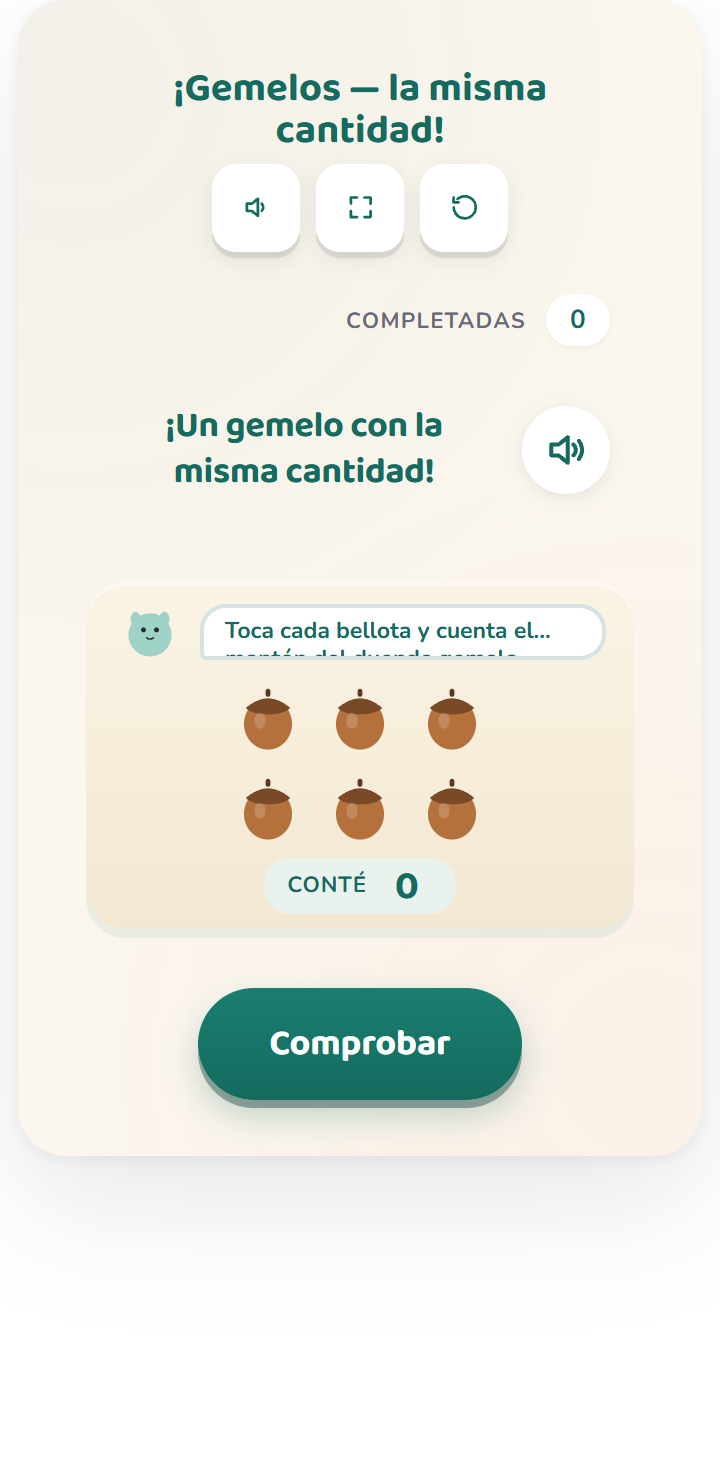
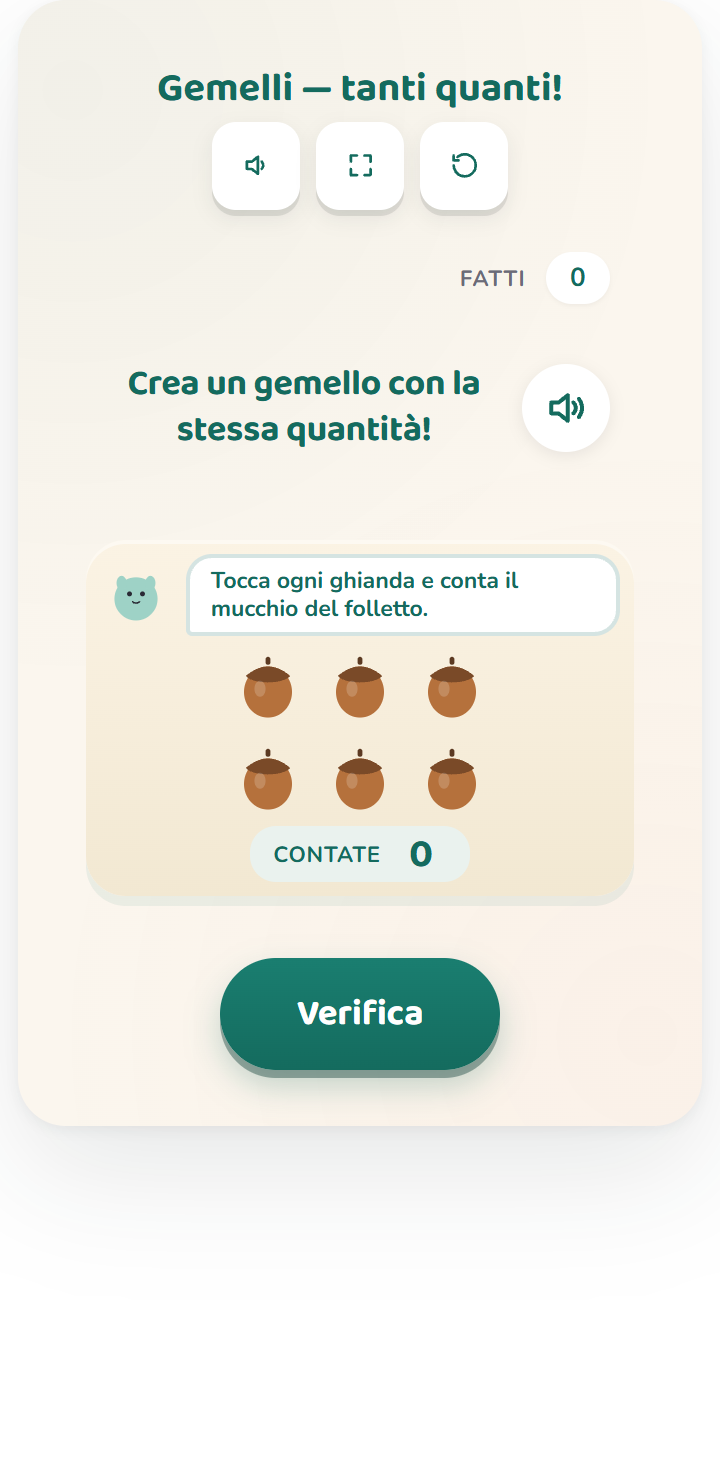
[FEATURE][I18N][IT] twinsies #69 — Gemelli, tanti quanti! (contare e formare la stessa quantità, Numeri, classe prima)
Italian second-batch fan-out, activity #69 = twinsies.count-twin.k-cc-b-5.
Rebuild not translate for the Indicazioni nazionali (3-agent native ensemble).

- 14 it strings + 1 aria arm (folletto gemello) + speak it-IT (fixes en-US fallback) + 2 inline arms (win-speak/done-eq « — gemelli!»); apostrophe-free JS.
- Terminology: folletto gemello / gemelli / tanti quanti (title+win) + la stessa quantità (prompt) / mucchio di ghiande / il tuo piatto.
- GRADE classe prima (it:'1', pedagogue-DECISIVE — overturned fr/es): the written-numeral round + range-12 + count-on push it past infanzia. ALIGNS de/pt; fr(GS)/es(PK) stay base K.
- STRAND «Numeri» AUTO — no it override (C&C→it «Numeri»; arrangements are a decoy not geometry; the STRAND row is fr-only).
- 1 visual-QA content fix: countHint shortened «...del folletto gemello.»→«...del folletto.» (the long form clipped the .tw-say line-clamp:2 at 320px).
- Manifest slug/page_title/page_intro it; it.json prose; wrapper 9.521->9.522; html ?v 9->10.
- Framework NAME only, no curriculum code. 130 it activities, all DoD gates green. NO deploy (batch at end).

diff --git a/mini tools/twinsies-activity.js b/mini tools/twinsies-activity.js
@@ -23,7 +23,7 @@
 
   function speak(text) {
     try { if (global.LCSAudio && global.LCSAudio.speak) { global.LCSAudio.speak({ type: 'number', text: String(text), lang: (LANG === 'pt' ? 'pt-BR' : LANG), rate: 0.95 }); return; }
-      if (global.speechSynthesis && global.SpeechSynthesisUtterance) { var u = new global.SpeechSynthesisUtterance(String(text)); u.rate = .95; u.lang = (LANG === 'fr' ? 'fr-FR' : LANG === 'de' ? 'de-DE' : LANG === 'es' ? 'es-MX' : LANG === 'pt' ? 'pt-BR' : 'en-US'); global.speechSynthesis.cancel(); global.speechSynthesis.speak(u); } } catch (e) {}
+      if (global.speechSynthesis && global.SpeechSynthesisUtterance) { var u = new global.SpeechSynthesisUtterance(String(text)); u.rate = .95; u.lang = (LANG === 'fr' ? 'fr-FR' : LANG === 'de' ? 'de-DE' : LANG === 'es' ? 'es-MX' : LANG === 'pt' ? 'pt-BR' : LANG === 'it' ? 'it-IT' : 'en-US'); global.speechSynthesis.cancel(); global.speechSynthesis.speak(u); } } catch (e) {}
   }
   function esc(s) { return String(s == null ? '' : s).replace(/[&<>"]/g, function (c) { return { '&': '&amp;', '<': '&lt;', '>': '&gt;', '"': '&quot;' }[c]; }); }
   function acornHTML() { return '<svg viewBox="0 0 100 100" class="tw-acorn-svg" aria-hidden="true"><ellipse cx="50" cy="60" rx="30" ry="32" fill="#B5713C"/><path d="M22 40 Q50 16 78 40 Q70 48 50 48 Q30 48 22 40 Z" fill="#7A4A28"/><rect x="47" y="16" width="6" height="10" rx="3" fill="#5C3A22"/><ellipse cx="40" cy="56" rx="7" ry="10" fill="#fff" opacity="0.18"/></svg>'; }
@@ -31,27 +31,27 @@
     var happy = mood === 'happy';
     var eyes = happy ? '<path d="M36 46 q5 -5 10 0 M54 46 q5 -5 10 0" stroke="#2A2A35" stroke-width="2.6" fill="none" stroke-linecap="round"/>' : '<circle cx="41" cy="47" r="3.4" fill="#2A2A35"/><circle cx="59" cy="47" r="3.4" fill="#2A2A35"/>';
     var mouth = happy ? '<path d="M42 58 q8 9 16 0" stroke="#2A2A35" stroke-width="2.6" fill="none" stroke-linecap="round"/>' : '<path d="M45 58 q5 4 10 0" stroke="#2A2A35" stroke-width="2.2" fill="none" stroke-linecap="round"/>';
-    return '<svg class="tw-sprite-svg" viewBox="0 0 100 100" role="img" aria-label="' + (LANG === 'fr' ? 'lutin jumeau' : LANG === 'de' ? 'Zwillings-Wicht' : LANG === 'es' ? 'duende gemelo' : LANG === 'pt' ? 'duende gêmeo' : 'Twin-Sprite') + '"><ellipse cx="50" cy="54" rx="30" ry="30" fill="#9ED2C6"/><ellipse cx="30" cy="32" rx="7" ry="10" fill="#9ED2C6"/><ellipse cx="70" cy="32" rx="7" ry="10" fill="#9ED2C6"/>' + eyes + mouth + '</svg>'; }
+    return '<svg class="tw-sprite-svg" viewBox="0 0 100 100" role="img" aria-label="' + (LANG === 'fr' ? 'lutin jumeau' : LANG === 'de' ? 'Zwillings-Wicht' : LANG === 'es' ? 'duende gemelo' : LANG === 'pt' ? 'duende gêmeo' : LANG === 'it' ? 'folletto gemello' : 'Twin-Sprite') + '"><ellipse cx="50" cy="54" rx="30" ry="30" fill="#9ED2C6"/><ellipse cx="30" cy="32" rx="7" ry="10" fill="#9ED2C6"/><ellipse cx="70" cy="32" rx="7" ry="10" fill="#9ED2C6"/>' + eyes + mouth + '</svg>'; }
 
   global.TwinsiesActivity = {
     id: 'twinsies-activity',
     reward: { id: 'friendship-shelf', label: 'Friendship Shelf', emoji: '🫶' },
 
     strings: {
-      title: { en: 'Twinsies', de: 'Zwillinge — gleich viele!', fr: 'Les jumeaux — autant l’un que l’autre !', es: '¡Gemelos — la misma cantidad!', pt: 'Gêmeos — a mesma quantidade!' },
-      prompt: { en: 'Make a twin with the same many!', de: 'Bau einen Zwilling mit gleich vielen!', fr: 'Fais un jumeau avec autant !', es: '¡Un gemelo con la misma cantidad!', pt: 'Faça um gêmeo com a mesma quantidade!' },
-      countHint: { en: 'Tap each one to count the Twin-Sprite\'s pile.', de: 'Tippe jede Eichel an und zähle den Haufen vom Zwillings-Wicht.', fr: 'Touche chaque gland pour compter le tas du lutin jumeau.', es: 'Toca cada bellota y cuenta el montón del duende gemelo.', pt: 'Toque em cada bolota e conte.' },
-      buildHint: { en: 'Build a twin with the same number.', de: 'Bau einen Zwilling mit gleich vielen.', fr: 'Construis un jumeau avec le même nombre.', es: 'Arma un gemelo con la misma cantidad.', pt: 'Monte um gêmeo com a mesma quantidade.' },
-      numeralHint: { en: 'Count out this many on your plate.', de: 'Zähle so viele auf deinen Teller.', fr: 'Compte autant de glands sur ton assiette.', es: 'Cuenta esa misma cantidad en tu plato.', pt: 'Conte a mesma quantidade no prato.' },
-      countOnHint: { en: 'Almost a twin — add one more!', de: 'Fast ein Zwilling — leg noch eine dazu!', fr: 'Presque un jumeau — ajoute-en un !', es: '¡Casi un gemelo — agrega uno más!', pt: 'Quase um gêmeo — coloque mais uma!' },
-      commit: { en: 'I counted {n} — build the twin! →', de: 'Ich habe {n} gezählt — bau den Zwilling! →', fr: 'J’ai compté {n} — construis le jumeau ! →', es: 'Conté {n} — ¡arma el gemelo! →', pt: 'Contei {n} — monte o gêmeo! →' },
-      peek: { en: '👀 Peek', de: '👀 Gucken', fr: '👀 Coup d’œil', es: '👀 Espía', pt: '👀 Espiar' },
-      twinsBtn: { en: "We're twins!", de: 'Wir sind Zwillinge!', fr: 'On est jumeaux !', es: '¡Somos gemelos!', pt: 'Somos gêmeos!' },
-      win: { en: 'Twins! Same many!', de: 'Zwillinge! Gleich viele!', fr: 'Jumeaux ! Autant l’un que l’autre !', es: '¡Gemelos! ¡La misma cantidad!', pt: 'Gêmeos! A mesma quantidade!' },
-      notyet: { en: 'Not twins yet — let\'s count again.', de: 'Noch keine Zwillinge — zählen wir noch mal.', fr: 'Pas encore jumeaux — comptons encore.', es: 'Todavía no son gemelos — vamos a contar de nuevo.', pt: 'Ainda não são gêmeos — vamos contar de novo.' },
-      hintCheck: { en: 'Make a matching twin, then tap We\'re twins!', de: 'Bau einen passenden Zwilling und tippe dann auf „Wir sind Zwillinge!“', fr: 'Fais un jumeau identique, puis touche On est jumeaux !', es: 'Arma un gemelo igual y luego toca «¡Somos gemelos!».', pt: 'Monte um gêmeo igualzinho e depois toque em “Somos gêmeos!”.' },
-      readCounted: { en: 'Counted', de: 'Gezählt', fr: 'Comptés', es: 'Conté', pt: 'Contei' },
-      readTwin: { en: 'Twin', de: 'Zwilling', fr: 'Jumeau', es: 'Gemelo', pt: 'Gêmeo' }
+      title: { en: 'Twinsies', de: 'Zwillinge — gleich viele!', fr: 'Les jumeaux — autant l’un que l’autre !', es: '¡Gemelos — la misma cantidad!', pt: 'Gêmeos — a mesma quantidade!', it: 'Gemelli — tanti quanti!' },
+      prompt: { en: 'Make a twin with the same many!', de: 'Bau einen Zwilling mit gleich vielen!', fr: 'Fais un jumeau avec autant !', es: '¡Un gemelo con la misma cantidad!', pt: 'Faça um gêmeo com a mesma quantidade!', it: 'Crea un gemello con la stessa quantità!' },
+      countHint: { en: 'Tap each one to count the Twin-Sprite\'s pile.', de: 'Tippe jede Eichel an und zähle den Haufen vom Zwillings-Wicht.', fr: 'Touche chaque gland pour compter le tas du lutin jumeau.', es: 'Toca cada bellota y cuenta el montón del duende gemelo.', pt: 'Toque em cada bolota e conte.', it: 'Tocca ogni ghianda e conta il mucchio del folletto.' },
+      buildHint: { en: 'Build a twin with the same number.', de: 'Bau einen Zwilling mit gleich vielen.', fr: 'Construis un jumeau avec le même nombre.', es: 'Arma un gemelo con la misma cantidad.', pt: 'Monte um gêmeo com a mesma quantidade.', it: 'Costruisci un gemello con lo stesso numero.' },
+      numeralHint: { en: 'Count out this many on your plate.', de: 'Zähle so viele auf deinen Teller.', fr: 'Compte autant de glands sur ton assiette.', es: 'Cuenta esa misma cantidad en tu plato.', pt: 'Conte a mesma quantidade no prato.', it: 'Conta questa quantità sul tuo piatto.' },
+      countOnHint: { en: 'Almost a twin — add one more!', de: 'Fast ein Zwilling — leg noch eine dazu!', fr: 'Presque un jumeau — ajoute-en un !', es: '¡Casi un gemelo — agrega uno más!', pt: 'Quase um gêmeo — coloque mais uma!', it: 'Quasi gemelli — aggiungi ancora uno!' },
+      commit: { en: 'I counted {n} — build the twin! →', de: 'Ich habe {n} gezählt — bau den Zwilling! →', fr: 'J’ai compté {n} — construis le jumeau ! →', es: 'Conté {n} — ¡arma el gemelo! →', pt: 'Contei {n} — monte o gêmeo! →', it: 'Ho contato {n} — costruisci il gemello! →' },
+      peek: { en: '👀 Peek', de: '👀 Gucken', fr: '👀 Coup d’œil', es: '👀 Espía', pt: '👀 Espiar', it: '👀 Sbircia' },
+      twinsBtn: { en: "We're twins!", de: 'Wir sind Zwillinge!', fr: 'On est jumeaux !', es: '¡Somos gemelos!', pt: 'Somos gêmeos!', it: 'Siamo gemelli!' },
+      win: { en: 'Twins! Same many!', de: 'Zwillinge! Gleich viele!', fr: 'Jumeaux ! Autant l’un que l’autre !', es: '¡Gemelos! ¡La misma cantidad!', pt: 'Gêmeos! A mesma quantidade!', it: 'Gemelli! Tanti quanti!' },
+      notyet: { en: 'Not twins yet — let\'s count again.', de: 'Noch keine Zwillinge — zählen wir noch mal.', fr: 'Pas encore jumeaux — comptons encore.', es: 'Todavía no son gemelos — vamos a contar de nuevo.', pt: 'Ainda não são gêmeos — vamos contar de novo.', it: 'Non ancora gemelli — contiamo di nuovo.' },
+      hintCheck: { en: 'Make a matching twin, then tap We\'re twins!', de: 'Bau einen passenden Zwilling und tippe dann auf „Wir sind Zwillinge!“', fr: 'Fais un jumeau identique, puis touche On est jumeaux !', es: 'Arma un gemelo igual y luego toca «¡Somos gemelos!».', pt: 'Monte um gêmeo igualzinho e depois toque em “Somos gêmeos!”.', it: 'Crea un gemello uguale, poi tocca Siamo gemelli!' },
+      readCounted: { en: 'Counted', de: 'Gezählt', fr: 'Comptés', es: 'Conté', pt: 'Contei', it: 'Contate' },
+      readTwin: { en: 'Twin', de: 'Zwilling', fr: 'Jumeau', es: 'Gemelo', pt: 'Gêmeo', it: 'Gemello' }
     },
     defaults: {},
 
@@ -203,7 +203,7 @@
       if (res.twins) {
         this.solved = true; this.stage = 'done'; this.solvedCount = Math.min(this.solvedCount + 1, (this._pool && this._pool.length) || 7);
         this.api.sound && this.api.sound(900); this.render();
-        var n = this._n(); api.announce && api.announce(api.t('win')); speak(LANG === 'fr' ? (n + ' et ' + n + ' — jumeaux !') : LANG === 'de' ? (n + ' und ' + n + ' — Zwillinge!') : LANG === 'es' ? (n + ' y ' + n + ' — ¡gemelos!') : LANG === 'pt' ? (n + ' e ' + n + ' — gêmeos!') : (n + ' and ' + n + ' — twins!'));
+        var n = this._n(); api.announce && api.announce(api.t('win')); speak(LANG === 'fr' ? (n + ' et ' + n + ' — jumeaux !') : LANG === 'de' ? (n + ' und ' + n + ' — Zwillinge!') : LANG === 'es' ? (n + ' y ' + n + ' — ¡gemelos!') : LANG === 'pt' ? (n + ' e ' + n + ' — gêmeos!') : LANG === 'it' ? (n + ' e ' + n + ' — gemelli!') : (n + ' and ' + n + ' — twins!'));
       } else {
         this.declareFail = true; this.api.sound && this.api.sound(330); this.render();
         api.announce && api.announce(api.t('notyet'));    // undirected — NO count, NO direction
@@ -213,7 +213,7 @@
     _renderDone: function (root) {
       var api = this.api;
       var thread = api.el('div', 'tw-thread'); thread.innerHTML = '<span class="tw-pair">' + acornHTML() + '</span><span class="tw-link"></span><span class="tw-pair">' + acornHTML() + '</span>'; root.appendChild(thread);
-      var eq = api.el('div', 'tw-eq'); eq.textContent = (LANG === 'fr') ? (this._n() + ' & ' + this._n() + ' — jumeaux !') : (this._n() + ' & ' + this._n() + (LANG === 'de' ? ' — Zwillinge!' : LANG === 'es' ? ' — ¡gemelos!' : LANG === 'pt' ? ' — gêmeos!' : ' — twins!')); root.appendChild(eq);
+      var eq = api.el('div', 'tw-eq'); eq.textContent = (LANG === 'fr') ? (this._n() + ' & ' + this._n() + ' — jumeaux !') : (this._n() + ' & ' + this._n() + (LANG === 'de' ? ' — Zwillinge!' : LANG === 'es' ? ' — ¡gemelos!' : LANG === 'pt' ? ' — gêmeos!' : LANG === 'it' ? ' — gemelli!' : ' — twins!')); root.appendChild(eq);
       var shelf = api.el('div', 'tw-shelf');
       for (var i = 0; i < ((this._pool && this._pool.length) || 7); i++) { var s = api.el('span', 'tw-pairdot' + (i < this.solvedCount ? ' tw-pairdot-on' : '')); s.textContent = '🫶'; shelf.appendChild(s); }
       root.appendChild(shelf);

diff --git a/frontend/app/[locale]/activities/[slug]/page.tsx b/frontend/app/[locale]/activities/[slug]/page.tsx
@@ -116,7 +116,7 @@ const GRADE_OVERRIDE: Record<string, Record<string, string>> = {
   'nesting-pots.seriate.k-cc-c-7': { de: '1', fr: '1', es: 'PK', pt: '1', it: '1' },          // it classe prima: confrontare/ordinare i numeri naturali SCRITTI 1-10 (leggendo il NUMERALE dipinto, NON la grandezza del vasetto = distrattore) = obiettivo classe-prima «Numeri»; la scuola dell'infanzia lavora il numero solo oralmente/concretamente, non formalizza il simbolo scritto. Aligns de/fr/pt + il fratello K.CC.C.7 comparison-creek=1; diverge es=PK (artefatto sistema MX). Strand «Numeri» auto (C&C→Numeri; la grandezza è un DECOY → NON «Spazio e figure») — NO STRAND_OVERRIDE. // PT 1º ano (pedagogue-decisive) · Números · EF01MA05: ordenar/encaixar potes pelo NUMERAL pintado (do maior ao menor), lendo o número e NÃO o tamanho físico (o tamanho é distrator perceptual), é comparar/ordenar números naturais ESCRITOS — EF01MA05 ("comparar números de até duas ordens"; o round de duas ordens 12-40 é a redação literal), unidade Números, 1º ano — NÃO seriação perceptual da EI (EI03ET07, evita a formalização simbólica). Espelha comparison-creek (mesmo K.CC.C.7 → pt 1º/EF01MA05) e diverge do es='PK' (a fronteira BNCC EI→EF cai um degrau acima da SEP); ancorado em EF01MA05, não no artefato de='Klasse 1'. Números por auto-map, SEM STRAND_OVERRIDE pt. // K seriate/order numbers → Klasse 1; en stays Kindergarten (K-cluster pattern). FR CP (operator-ruled, content-drives): comparer/ranger/encadrer des nombres écrits + un round à deux chiffres (12-40) + la seriation d'une suite = attendus du CP (« comparer, ranger, encadrer les nombres jusqu'à 100 »); DIVERGES from the K.CC.C.7 sibling comparison-creek (all 1-10 → GS) on content difficulty (posy #71 pattern); CP → the auto-map « Nombres et calcul » is correct → NO STRAND override. ES Preescolar ('PK' → «Preescolar»): seriar/ordenar numerales 1-10 = misma banda de preescolar que comparar (maestra-decisive); ESPEJA el hermano comparison-creek es:'PK' (mismo estándar K.CC.C.7); el reto de 2 cifras es UN round, no define el grado; el Klasse-1 alemán NO transfiere; strand auto «Sentido numérico» → NO es STRAND override
   'clunks-lost-lunch.make-total.k-oa-a-3': { de: '1', fr: '1', es: '1', pt: '1', it: '1' },  // IT classe prima (pedagogue-decisive): comporre/scomporre i numeri entro il 20 (target 10/12/14) con numerali scritti + addizione = obiettivo classe-prima «Numeri» (la scuola dell'infanzia lavora il numero solo oralmente/concretamente). STRAND «Numeri» AUTO (OA→it «Numeri» in strand-names.ts — corretto, NIENTE STRAND_OVERRIDE, a differenza di de «Zahlen und Operationen» / pt «Números»). ALIGNS de/fr/es/pt. // PT 1º ano (pedagogue-decisive) · Números (STRAND_OVERRIDE obrigatório, ver abaixo): compor um total de várias formas = composição/decomposição aditiva (EF01MA06 fatos básicos da adição + EF01MA08 problemas reunir/completar com material manipulável). Totais até ~14 (cruzando a dezena) permanecem 1º — EF01MA08 prevê "até dois algarismos"; NÃO é EF02MA04/2º (decomposição em dezenas/unidades, ausente — a criança combina parcelas num todo, nunca lê dezena/unidade). Espelha chuffer pt='1'; converge com de/fr/es grade 1. // K make-a-total-many-ways (Zahlen zusammensetzen) → Klasse 1; en stays Kindergarten (chuffer precedent). fr → CP (content-drives-CP: composer/décomposer un total jusqu'à 14 + compléments = calcul CP, NOT pure maternelle); strand falls through auto-map « Nombres et calcul ». ES 1.º primaria ('1', operator-ruled): componer hasta 14 CRUZANDO la decena + suma mental de varios sumandos = composición aditiva formal de 1.º (preescolar es concreto, ≤10); alinea ten-tank #58 (cruzar la decena→1.º); DIVERGE del hermano chuffer K.OA.A.3 (≤10→Kínder) por dificultad de contenido; strand auto «Sentido numérico» → NO es STRAND override
   'posy-egg-cartons.count-tens.k-cc-a-1': { de: '2', fr: '1', es: '1', pt: '1', it: '2' },  // it classe SECONDA (pedagogue-decisive, DIVERGES es/fr/pt=1, ALIGNS de=2 by an INDEPENDENT Italian ruling): «la classe prima italiana è il regno dei numeri entro il 20»; contare di dieci in dieci fino a 100 + riconoscere un numeral entro il 100 = caposaldo di classe seconda (l'entro-100 RANGE è il marcatore, non la meccanica del valore posizionale — la scansione italiana è vicina alla tedesca). Strand «Numeri» auto (contare, non Álgebra) — NO STRAND_OVERRIDE. // K count-by-tens CONTENT bis 100. PT 1º ano (pedagogue-decisive, NOT 2º): contar coleção ATÉ 100 de 10 em 10 (agrupamento) = BNCC EF01MA04 ("até 100... jogos/brincadeiras", explícito no 1º) + EF01MA02 (contar por agrupamentos); a Klasse-2 alemã é artefato de estratificação DE (ZR-bis-100), NÃO transfere à BNCC (sem esse teto). ⚠ DISTINTO de bos-berry-pantry pt='2': posy CONTA uma coleção (caixas-de-dez = suporte de contagem), NÃO lê/decompõe numeral de duas ordens por valor posicional (isso é o que a BNCC adia para 2º). Harmoniza com fr(CP)/es(1.º). Strand Números pelo auto-map (contagem, NÃO Álgebra — não completa sequência) → SEM STRAND_OVERRIDE pt. → Klasse 2 (ZR bis 100 = Klasse 2; content drives the grade, the pond-juice/bundle-bot precedent); en stays Kindergarten. FR CP: compter de 10 en 10 jusqu'à 100 / les nombres jusqu'à 100 (groupements par dizaines) = attendu de CP (le domaine des nombres jusqu'à 100 débute au CP en France) → native 'K' does NOT auto-map to GS (la GS s'arrête vers 30, sans dizaines structurées); the FIRST cycle-2 counting fan, DIVERGES from de Klasse 2; strand auto-map « Nombres et calcul » is correct for CP → NO STRAND override. ES 1.º primaria (maestra-decisive #61, "no escalation"): 1.º mexicano trabaja hasta 100 + la decena + contar de 10 en 10; la Klasse-2 alemana NO transfiere (artefacto de estratificación DE); alinea los hermanos base-ten es within-100 (bundle-bot/track-repair/ten-tank='1'). strand auto «Sentido numérico» (no override)
-  'twinsies.count-twin.k-cc-b-5': { de: '1', pt: '1' },                   // K count + make a gleich-große Menge (Anzahlinvarianz, ZR bis 12) → Klasse 1; en stays Kindergarten (K-cluster pattern). PT 1º ano · EF01MA03 · Números: a criança conta a coleção do duende e PRODUZ uma coleção "gêmea" com a mesma quantidade, em arranjo diferente (fila/espalhado/campo/numeral) — só o número coincide, não a forma (conservação do número). EF01MA03 (correspondência um a um: tem mais/menos/a mesma quantidade) — MESMA habilidade da friendship-bridge, aqui do lado PRODUZIR ("dar tantos quanto") em vez de julgar. Espelha de (Klasse 1) + friendship-bridge; diverge de fr (GS)/es (preescolar): a fronteira da BNCC p/ a correspondência "mesma quantidade" cai um degrau acima da maternelle/SEP. NÃO é EI (construção sistemática por correspondência = 1º). C&C→Números auto-map, SEM STRAND_OVERRIDE pt
+  'twinsies.count-twin.k-cc-b-5': { de: '1', pt: '1', it: '1' },          // IT classe prima (pedagogue-decisive, overturned fr/es): the written-NUMERAL round (leggere "8", formare 8) instantiates a classe-prima «Numeri» obiettivo (leggere/scrivere i numeri; l'infanzia usa «simboli personali», NON il numerale) + range-to-12 + count-on «in senso progressivo» → past infanzia. ALIGNS de/pt; diverges fr (GS)/es (preescolar, stay base K). STRAND «Numeri» AUTO (C&C→it «Numeri»; arrangements are a DECOY not geometry) — NO it STRAND_OVERRIDE (line ~173 is fr-only). // K count + make a gleich-große Menge (Anzahlinvarianz, ZR bis 12) → Klasse 1; en stays Kindergarten (K-cluster pattern). PT 1º ano · EF01MA03 · Números: a criança conta a coleção do duende e PRODUZ uma coleção "gêmea" com a mesma quantidade, em arranjo diferente (fila/espalhado/campo/numeral) — só o número coincide, não a forma (conservação do número). EF01MA03 (correspondência um a um: tem mais/menos/a mesma quantidade) — MESMA habilidade da friendship-bridge, aqui do lado PRODUZIR ("dar tantos quanto") em vez de julgar. Espelha de (Klasse 1) + friendship-bridge; diverge de fr (GS)/es (preescolar): a fronteira da BNCC p/ a correspondência "mesma quantidade" cai um degrau acima da maternelle/SEP. NÃO é EI (construção sistemática por correspondência = 1º). C&C→Números auto-map, SEM STRAND_OVERRIDE pt
   'rivets-number-forge.numeral-album.k-cc-a-3': { de: '1', fr: '1', pt: '1' },  // PT 1º ano · Números · EF01MA01 (utilizar o número natural como indicador de quantidade). A criança conta a coleção e FORJA o numeral escrito (0 a 20, incl. o zero) que diz quantos são — relacionar quantidade ↔ registro simbólico, a terceira face do K.CC.A.3 (ler/escrever/contar-e-representar). Espelha pips-round (leitura 0-20) e digby (escrita 0-9), ambos pt 1º/EF01MA01. Zero e a faixa 0-20 não sobem (o numeral é PRODUZIDO como rótulo da contagem, sem decomposição por valor posicional). C&C→Números auto-map, SEM STRAND_OVERRIDE. Converge com de(Klasse1)/fr(CP), diverge de es='K' nativo. // K count-enacted numeral production (Anzahl bis 20 + passende Ziffer) → Klasse 1 (ZR bis 20); en stays Kindergarten (K-cluster; digby/pips siblings precedent). fr → CP (RANGE-driven like the READ sibling pips #99: producing two-digit teen numerals 10-14 = « écrire les nombres jusqu'à 20 en chiffres » CP, not the GS 0-9 digby ceiling); strand auto-maps « Nombres et calcul »
   'mamas-roll-call.numeral-trace.k-cc-b-5': { de: '1', pt: '1' },         // PT 1º ano · Números · EF01MA04. A Mamãe Pata faz a chamada: pede um número exato de patinhos (0-9), a criança CONTA um a um essa quantidade da balsa e a envia e, por fim, ASSINA a chamada ESCREVENDO/traçando o algarismo (0-9). Híbrido contar-coleção + registrar-algarismo → EF01MA04 ("contar... e apresentar o resultado por registros verbais e SIMBÓLICOS") é o gesto contar-para-depois-escrever. Espelha twinsies (face de contagem/coleção, EF01MA03) e digby (face da escrita convencional, EF01MA01), reunidos. Fica 1º (as duas faces são 1º; nem o teto 9 nem o zero rebaixam a escrita do algarismo). Converge com de(Klasse1), diverge de fr(GS)/es(K). C&C→Números auto-map, SEM STRAND_OVERRIDE pt. // K count-out (self-stop) + Ziffer formen (Anzahl bis 9) → Klasse 1; en stays Kindergarten (K-cluster; mochi/twinsies K.CC.B.5 precedent)
   'parking-tower.place-by-relation.k-g-a-1': { de: '1', pt: '1' },        // K Lagebeziehungen über/unter/neben/zwischen → Klasse 1 Geometrie; en stays Kindergarten (K-cluster). // PT 1º ano (override do native 'K'): descrever a localização de objetos em relação a um DADO PONTO DE REFERÊNCIA (o veículo já estacionado) usando em cima/embaixo/ao lado/entre = BNCC EF01MA12 (unidade Geometria, 1º ano — a habilidade nomeia "em cima, embaixo" e exige explicitar o referente; distinta de EF01MA11, relativa à própria posição direita/esquerda/frente/atrás). A Educação Infantil trata noções espaciais só informalmente (campos de experiência), sem o construto do referente → BNCC formaliza em 1º. Converge com de(Klasse 1), diverge de fr(GS)/es(Kínder). Strand Geometria resolve pelo auto-map (Geometry→Geometria, strand-names.ts:64) — SEM STRAND_OVERRIDE pt (o override :165 é fr-only).
@@ -555,7 +555,7 @@ export default async function ActivityPage({ params }: { params: PageParams }) {
   // applied here to the iframe-loaded wrapper URL (the only un-busted
   // link in the activity-page → mini-tool chain). The wrapper reads
   // only `activity` / `lang` / `embed` params; `v` is harmless to it.
-  const ACTIVITY_WRAPPER_VERSION = '9.521';
+  const ACTIVITY_WRAPPER_VERSION = '9.522';
 
   const iframeSrc =
     `/mini-tools/${row.tool}.html?v=${ACTIVITY_WRAPPER_VERSION}` +

diff --git a/mini tools/twinsies-activity.html b/mini tools/twinsies-activity.html
@@ -17,7 +17,7 @@
        NOTE: bump ?v=N on EVERY change to twinsies-activity.js (§A.13.42). -->
   <script src="/mini-tools/lcs-shell.js?v=5"></script>
   <script src="/mini-tools/count-twin-core.js?v=1"></script>
-  <script src="/mini-tools/twinsies-activity.js?v=9"></script>
+  <script src="/mini-tools/twinsies-activity.js?v=10"></script>
   <script>
     LCS.mount(TwinsiesActivity, { mount: '#lcs-root' });
   </script>
